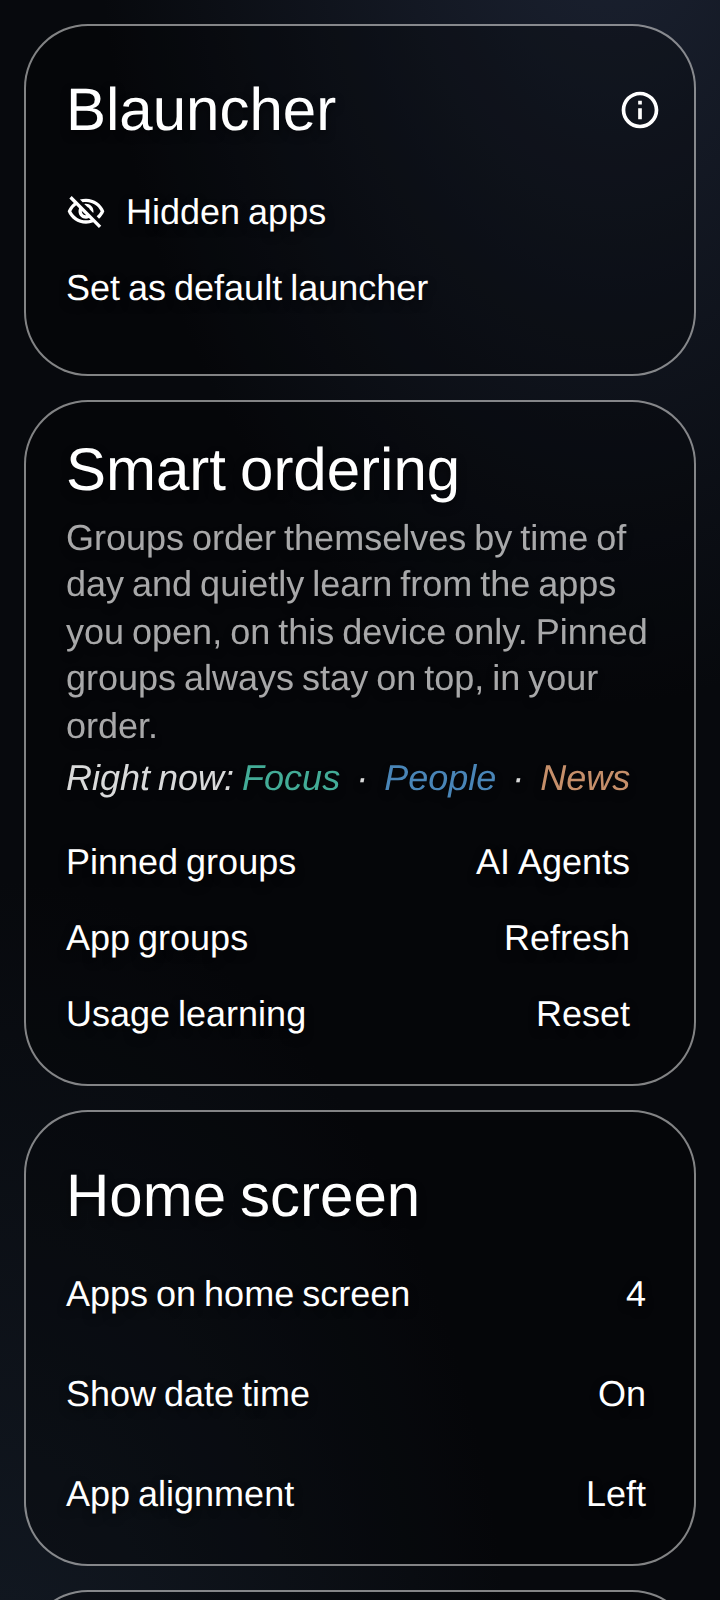
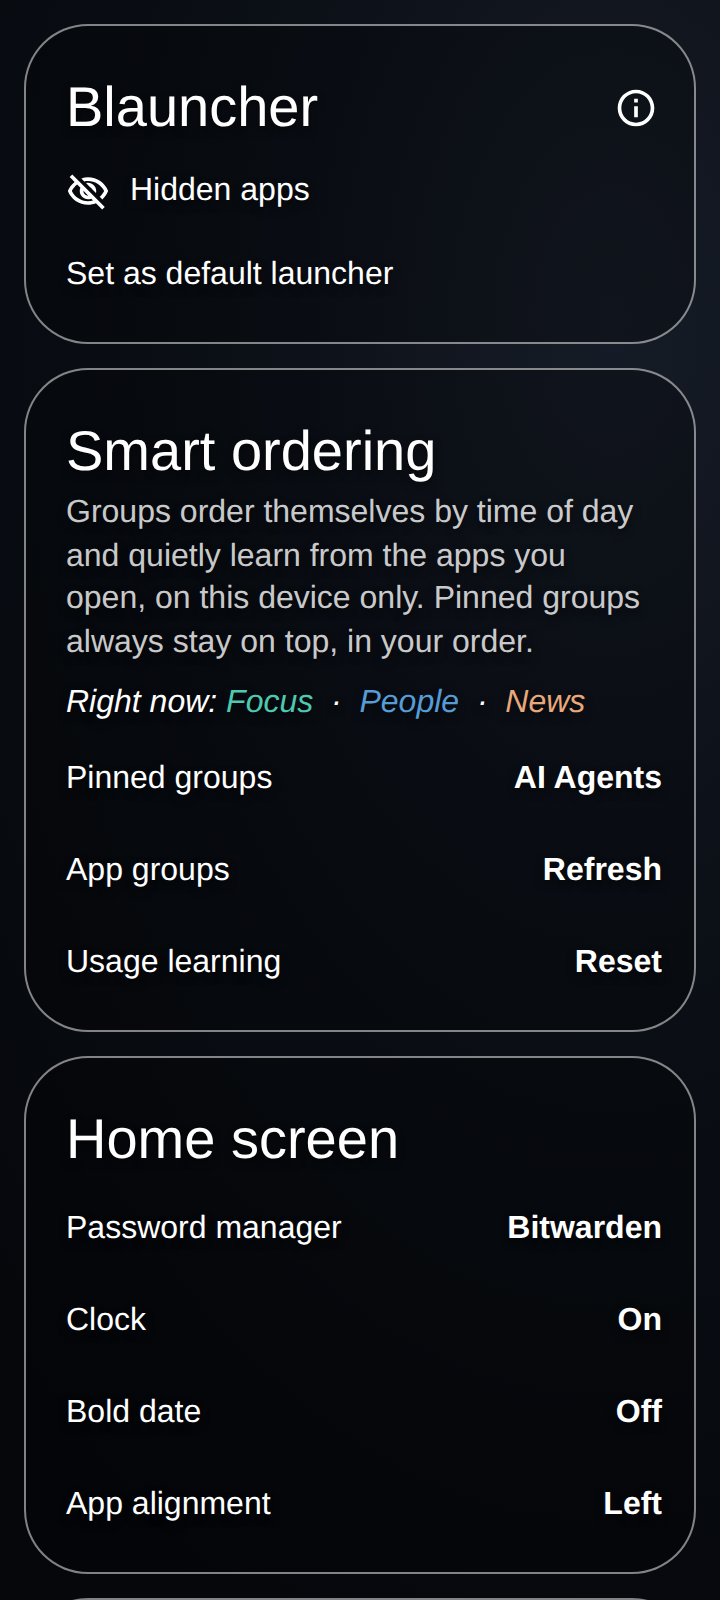
Re-render home and settings screens for the redesigned home screen
Rebuild docs/screenshots/home.png and settings.png from the current
layouts and strings: clock, date, search bar and password-manager glyph on
the home screen, and the Home screen settings card with its Password
manager, Clock, Bold date and alignment rows. Note in the README that the
screens are renders, as the originals were.

Claude-Session: https://claude.ai/code/session_01NMkyL5SPpFgLArSnMYzoh5

diff --git a/README.md b/README.md
@@ -14,6 +14,9 @@ settings. Full details in the **[user guide](GUIDE.md)**.
 | :---: | :---: | :---: |
 | ![Home screen: the time and date, a search bar, and a key glyph for the password manager](docs/screenshots/home.png) | ![App drawer: apps listed in colored groups with a search field on top; emphasized apps are bold and first while the rest of their group is faded](docs/screenshots/drawer.png) | ![Settings: Blauncher, Smart ordering, and Home screen cards](docs/screenshots/settings.png) |
 
+The screens above are renders built from the app's layouts, strings, and
+colors rather than device captures.
+
 ## What it does
 
 - **Near-empty home.** The time and date, a search bar, and a key glyph that
